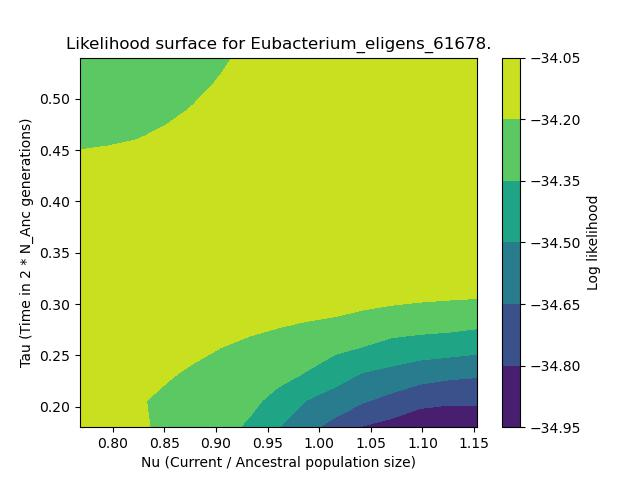
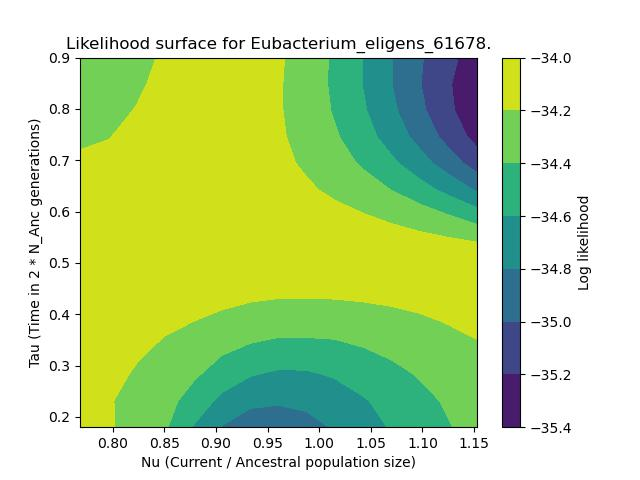
E. eligens

diff --git a/Scripts/plot_likelihood.py b/Scripts/plot_likelihood.py
@@ -472,7 +472,7 @@ class PlotLikelihood():
 
                 # E. eligens
                 x_range = numpy.linspace(x * 0.8, x * 1.2, npts)
-                y_range = numpy.linspace(y * 0.5, y * 1.5, npts)
+                y_range = numpy.linspace(y * 0.5, y * 2.5, npts)
                 
 
                 X, Y = numpy.meshgrid(x_range, y_range)
